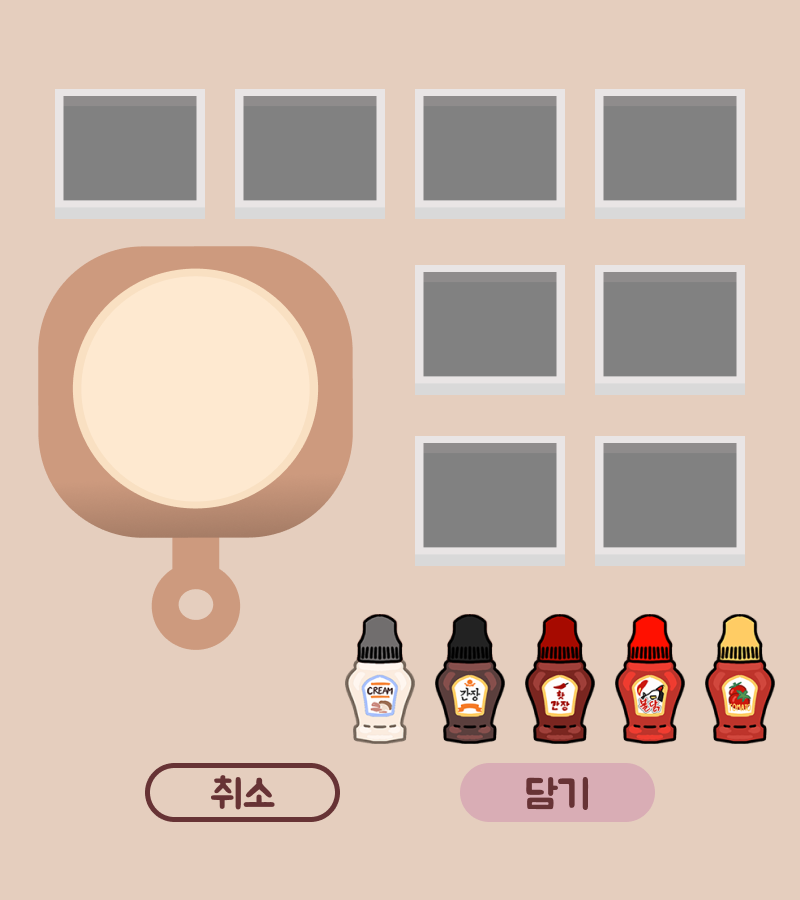
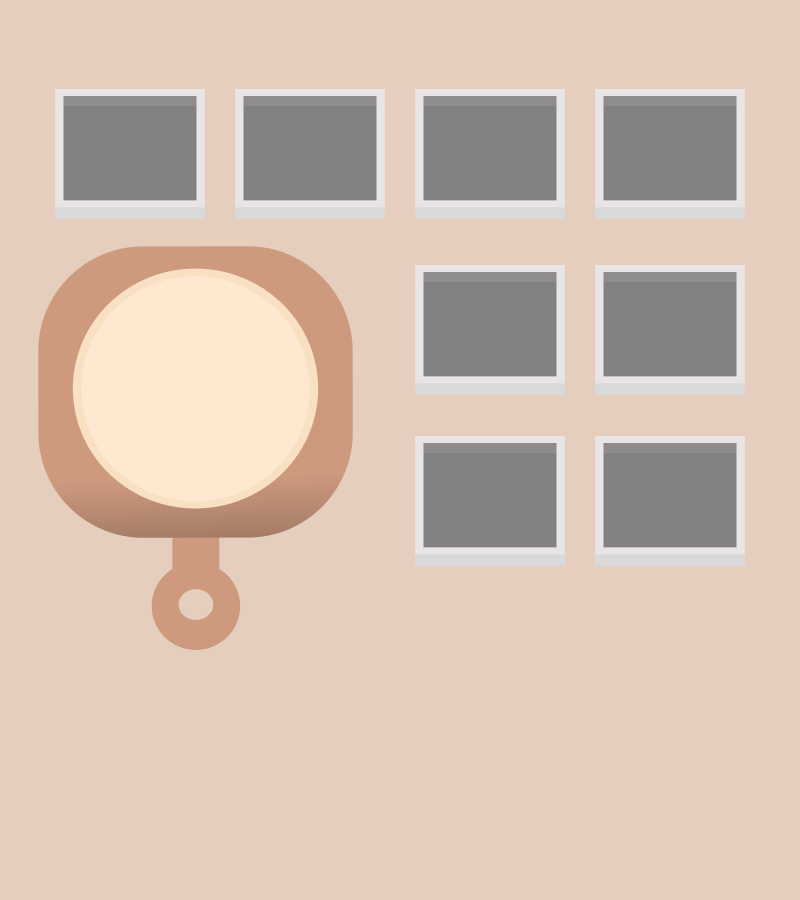
그림파일 푸쉬

Changed region(s): [[0.4062, 0.6844, 0.9688, 0.9333], [0.1875, 0.84, 0.4375, 0.9333], [0.1562, 0.8711, 0.1875, 0.9022]]

diff --git a/GreatPizza2/src/img/imageIcon.java b/GreatPizza2/src/img/imageIcon.java
@@ -3,6 +3,9 @@ package img;
 import javax.swing.ImageIcon;
 
 public class imageIcon {
+	public ImageIcon makePizzaFrame() {
+		return new ImageIcon(getClass().getClassLoader().getResource("나만의피자프레임.png"));
+	}
 	public ImageIcon getOrderBtnKor() {
 		return new ImageIcon(getClass().getClassLoader().getResource("주문하기.png"));
 	}
@@ -87,8 +90,44 @@ public class imageIcon {
 	public ImageIcon bigOrderBtn() {
 		return new ImageIcon(getClass().getClassLoader().getResource("주문완료버튼.png"));
 	}
-	public ImageIcon makePizzaFrame() {
-		return new ImageIcon(getClass().getClassLoader().getResource("나만의피자프레임.png"));
+	public ImageIcon getHotsource() {
+		return new ImageIcon(getClass().getClassLoader().getResource("핫소스.png"));
 	}
+	public ImageIcon getGarlic() {
+		return new ImageIcon(getClass().getClassLoader().getResource("갈릭디핑소스.png"));
+	}
+
+	public ImageIcon getWing() {
+		return new ImageIcon(getClass().getClassLoader().getResource("버팔로윙.png"));
+	}
+
+	public ImageIcon getPasta() {
+		return new ImageIcon(getClass().getClassLoader().getResource("스파게티.png"));
+	}
+
+	public ImageIcon getCheeseball() {
+		return new ImageIcon(getClass().getClassLoader().getResource("치즈볼.png"));
+	}
+
+	public ImageIcon getHashBrown() {
+		return new ImageIcon(getClass().getClassLoader().getResource("해쉬브라운.png"));
+	}
+	public ImageIcon getBulldak() {
+		return new ImageIcon(getClass().getClassLoader().getResource("불닭소스.png"));
+	}
+	public ImageIcon getHotSoy() {
+		return new ImageIcon(getClass().getClassLoader().getResource("핫간장.png"));
+	}
+	public ImageIcon getSoy() {
+		return new ImageIcon(getClass().getClassLoader().getResource("간장.png"));
+	}
+	public ImageIcon getCream() {
+		return new ImageIcon(getClass().getClassLoader().getResource("크림소스.png"));
+	}
+	public ImageIcon getTomato() {
+		return new ImageIcon(getClass().getClassLoader().getResource("토마토소스.png"));
+	}
+	
+
 
 }

diff --git a/GreatPizza2/src/frame/MakePizzaFrame.java b/GreatPizza2/src/frame/MakePizzaFrame.java
@@ -7,6 +7,7 @@ import javax.swing.JButton;
 import javax.swing.JFrame;
 import javax.swing.JLabel;
 import javax.swing.JLayeredPane;
+import javax.swing.JPanel;
 
 import img.imageIcon;
 import utilty.invisibility;
@@ -57,12 +58,19 @@ public class MakePizzaFrame extends JFrame {
 		setSize(800, 900);
 		setLocationRelativeTo(null);
 	}
+	
 	private void sourceBtnSetting() {
-		JButton btn1 = new JButton();
-		JButton btn2 = new JButton();
-		JButton btn3 = new JButton();
-		JButton btn4 = new JButton();
-		JButton btn5 = new JButton();
+		JButton btn1 = new JButton(icon.getBulldak());
+		JButton btn2 = new JButton(icon.getHotSoy());
+		JButton btn3 = new JButton(icon.getSoy());
+		JButton btn4 = new JButton(icon.getCream());
+		JButton btn5 = new JButton(icon.getTomato());
+		
+		util.invisible(btn1);
+		util.invisible(btn2);
+		util.invisible(btn3);
+		util.invisible(btn4);
+		util.invisible(btn5);
 		
 		btn1.setBounds(345, 614, 70, 130);
 		jlp.add(btn1, new Integer(1));
@@ -74,6 +82,17 @@ public class MakePizzaFrame extends JFrame {
 		jlp.add(btn4, new Integer(1));
 		btn5.setBounds(705, 614, 70, 130);
 		jlp.add(btn5, new Integer(1));
+		
+		JButton btnNewButton = new JButton("New button");
+		btnNewButton.setBounds(198, 761, 195, 65);
+		jlp.add(btnNewButton, new Integer(2));
+		
+		JButton btnNewButton_1 = new JButton("New button");
+		btnNewButton_1.setBounds(461, 761, 195, 65);
+		jlp.add(btnNewButton_1, new Integer(2));
+		
+		JPanel panel = new JPanel();
+		panel.setBounds(138, 685, 46, 42);
+		jlp.add(panel, new Integer(2));
 	}
-
 }

diff --git a/GreatPizza2/src/frame/MenuFrame.java b/GreatPizza2/src/frame/MenuFrame.java
@@ -247,32 +247,32 @@ public class MenuFrame extends JFrame {
 	}
 
 	private void sideTabBtn() {
-		JButton btn1 = new JButton(icon.getCoke1());
+		JButton btn1 = new JButton(icon.getHotsource());
 		btn1.setBounds(60, 70, 180, 150);
 		menuPnl.add(btn1, new Integer(3));
 		util.invisible(btn1);
 
-		JButton btn2 = new JButton(icon.getCider1());
+		JButton btn2 = new JButton(icon.getGarlic());
 		btn2.setBounds(300, 70, 180, 150);
 		menuPnl.add(btn2, new Integer(3));
 		util.invisible(btn2);
 
-		JButton btn3 = new JButton(icon.getFanta1());
+		JButton btn3 = new JButton(icon.getWing());
 		btn3.setBounds(550, 70, 180, 150);
 		menuPnl.add(btn3, new Integer(3));
 		util.invisible(btn3);
 
-		JButton btn4 = new JButton(icon.getCoke2());
+		JButton btn4 = new JButton(icon.getPasta());
 		btn4.setBounds(60, 260, 180, 150);
 		menuPnl.add(btn4, new Integer(3));
 		util.invisible(btn4);
 
-		JButton btn5 = new JButton(icon.getCider2());
+		JButton btn5 = new JButton(icon.getCheeseball());
 		btn5.setBounds(300, 260, 180, 150);
 		menuPnl.add(btn5, new Integer(3));
 		util.invisible(btn5);
 
-		JButton btn6 = new JButton(icon.getFanta2());
+		JButton btn6 = new JButton(icon.getHashBrown());
 		btn6.setBounds(550, 260, 180, 150);
 		menuPnl.add(btn6, new Integer(3));
 		util.invisible(btn6);
